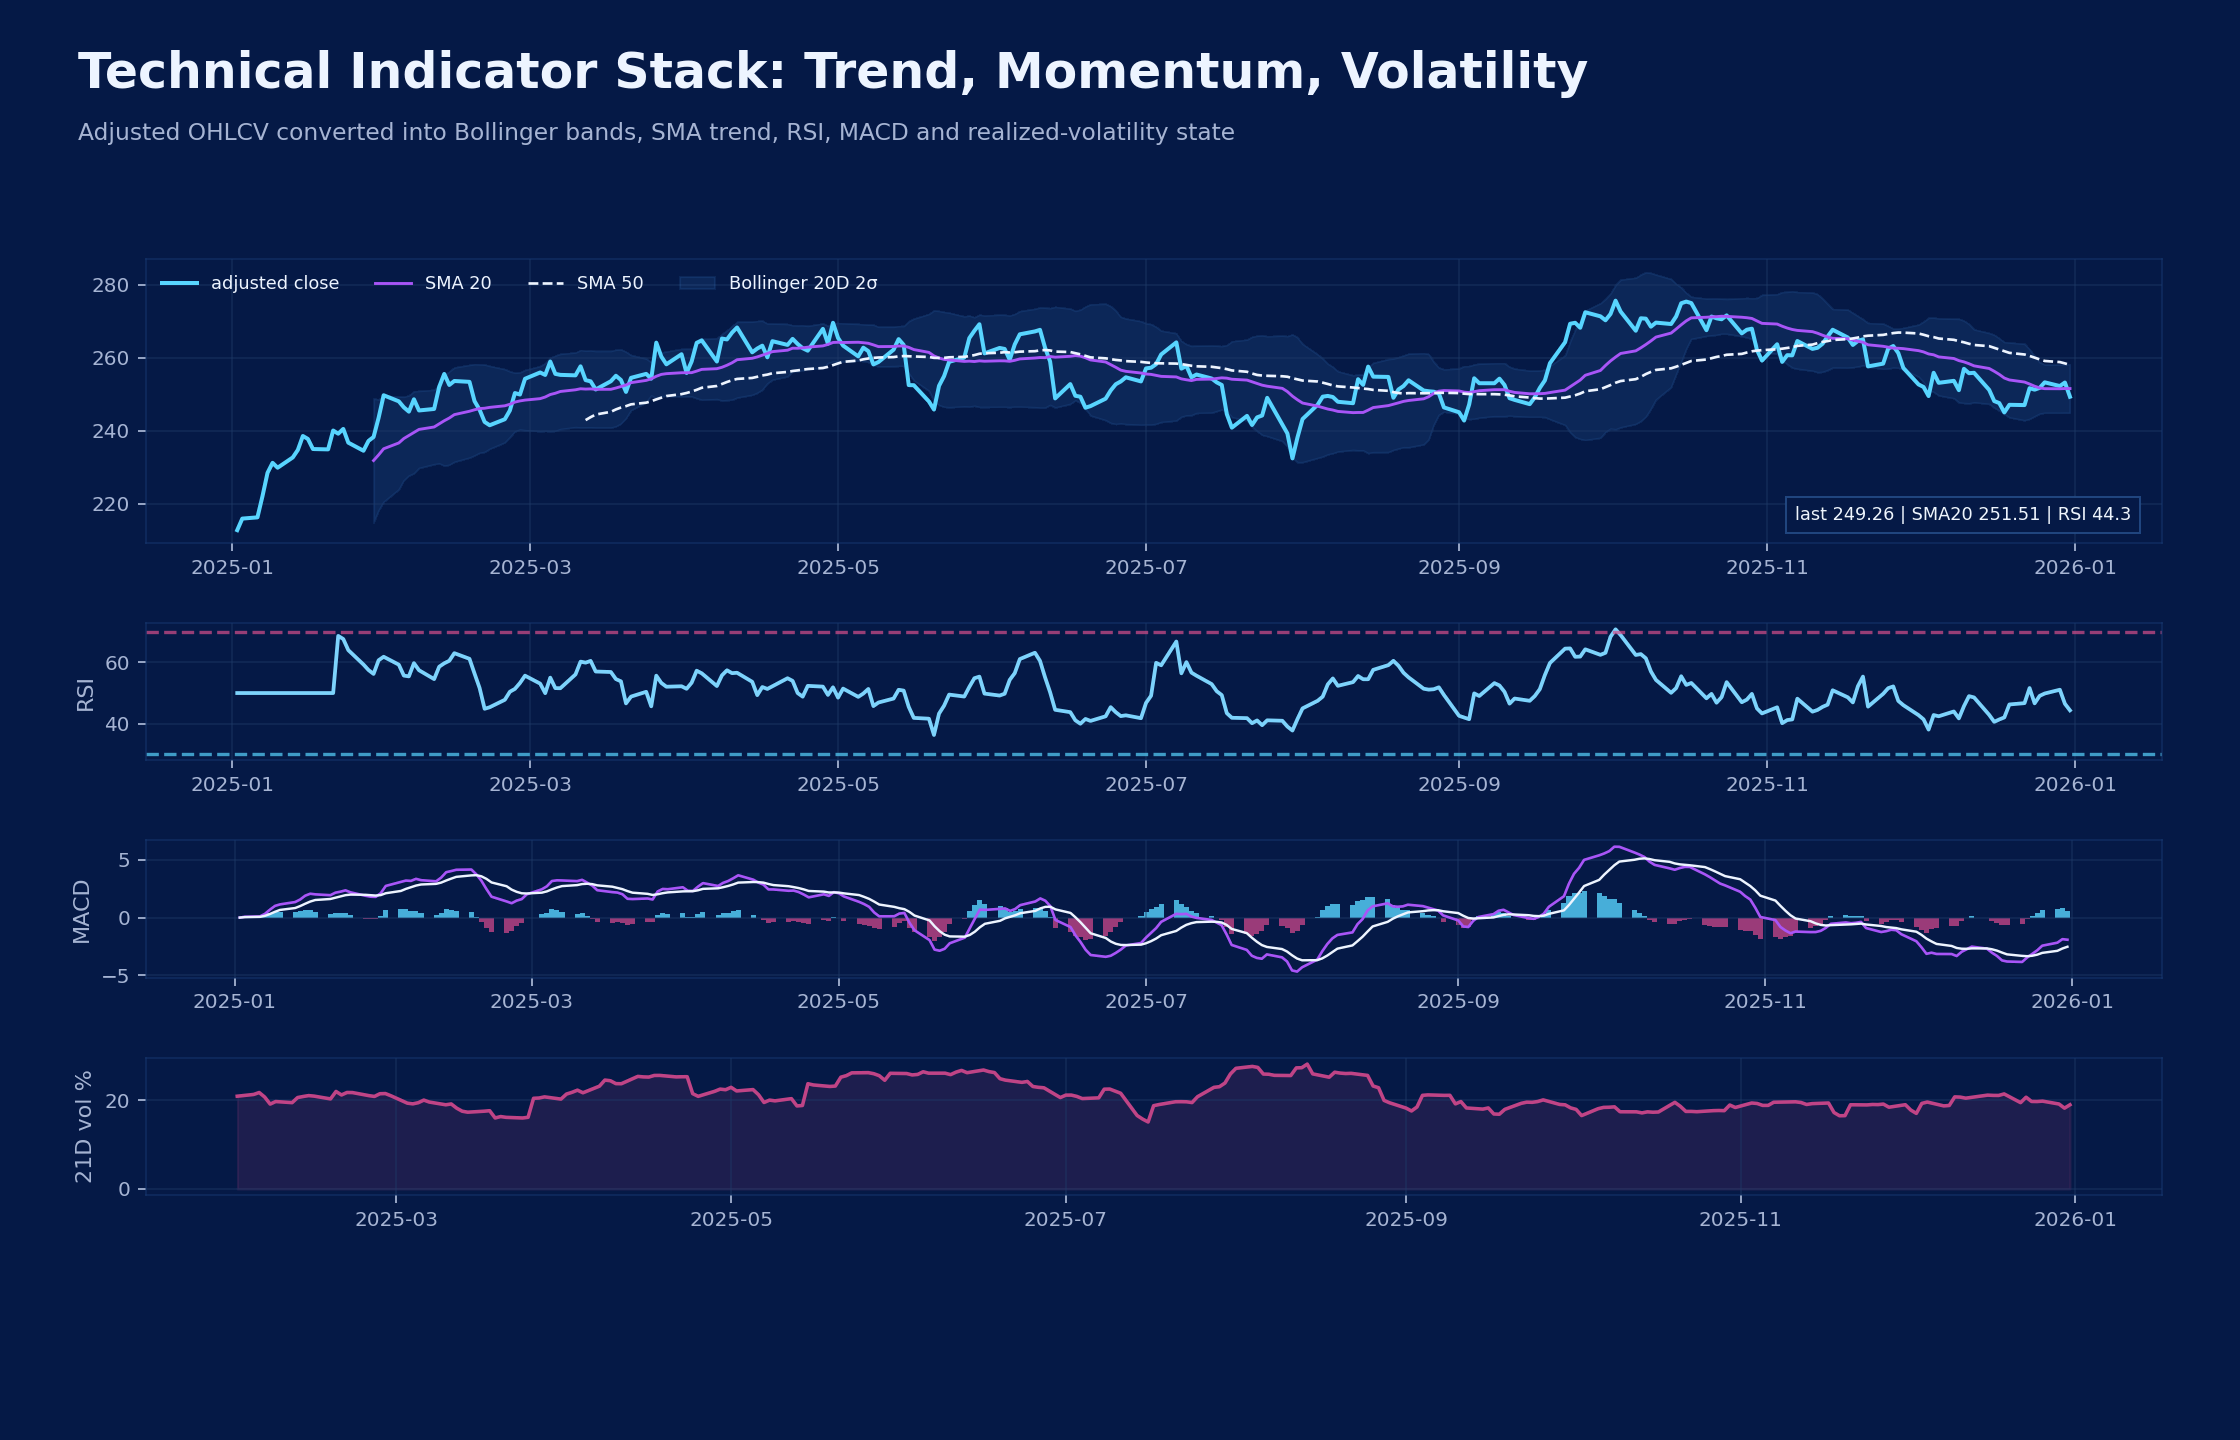
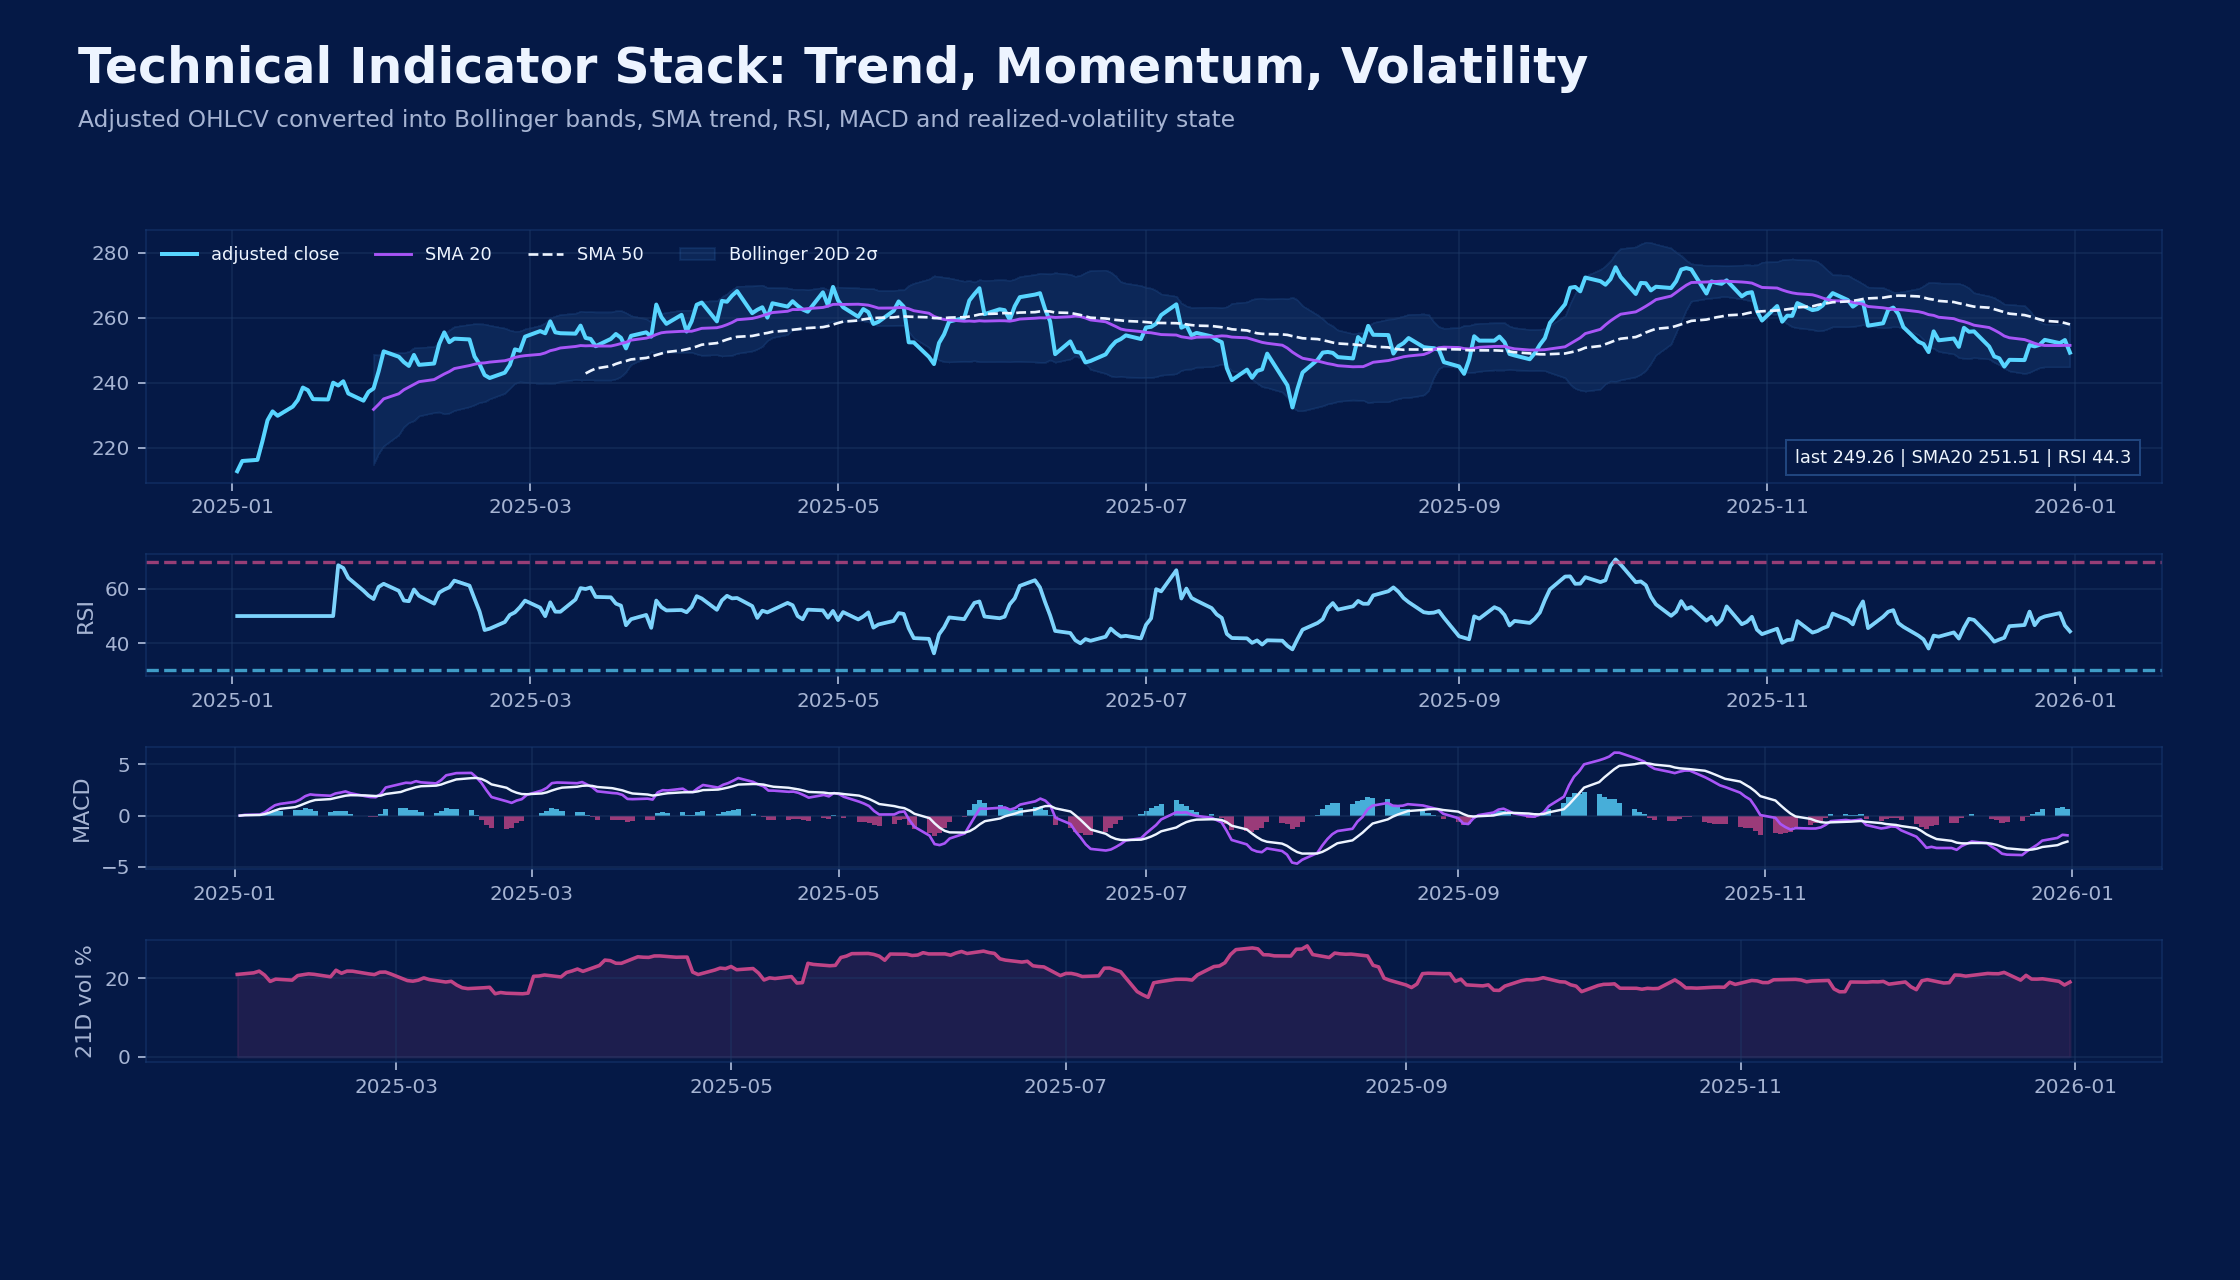
Widen technical stack showcase plot

diff --git a/scripts/generate_v3_showcase_outputs.py b/scripts/generate_v3_showcase_outputs.py
@@ -865,7 +865,7 @@ def plot_technical_indicator_stack(out: Path) -> None:
     macd = ema12 - ema26
     signal = macd.ewm(span=9).mean()
     vol = ret.rolling(21).std() * np.sqrt(252) * 100
-    fig = plt.figure(figsize=(14, 9), facecolor=NAVY)
+    fig = plt.figure(figsize=(14, 8), facecolor=NAVY)
     gs = fig.add_gridspec(4, 1, height_ratios=[1.55, 0.75, 0.75, 0.75])
     title(fig, "Technical Indicator Stack: Trend, Momentum, Volatility", "Adjusted OHLCV converted into Bollinger bands, SMA trend, RSI, MACD and realized-volatility state")
     axes = [fig.add_subplot(gs[i]) for i in range(4)]
